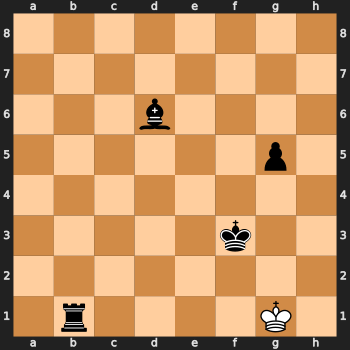
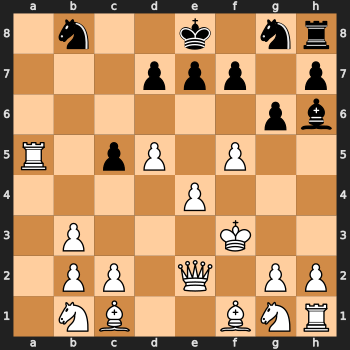
Random moves

diff --git a/randomMoves.py b/randomMoves.py
@@ -1,0 +1,75 @@
+import asyncio
+import chess
+import chess.engine
+import chess.svg
+import cairosvg
+import os
+import random
+import re
+
+
+async def main() -> None:
+    # Stockfish engine
+    transport, engine = await chess.engine.popen_uci("/usr/local/Cellar/stockfish/12/bin/stockfish")
+    black = 0
+    white = 0
+    draws = 0
+    board = chess.Board()
+
+    for j in range(100):
+
+        print("Game number: " + str(j+1))
+
+        # Create the board
+        board.reset()
+
+        # Counter
+        i = 0
+
+        # Loop through the game
+        while not board.is_game_over():
+            # Get result from engine
+            result = await engine.play(board, chess.engine.Limit(time=0.001))
+
+            # Select random move
+            num = random.randint(0, board.legal_moves.count() - 1)
+            moves = str(board.legal_moves)[str(board.legal_moves).find(
+                "(")+1:str(board.legal_moves).find(")")]
+            move = moves.split(', ')[num]
+
+            # Every other move is good- push to board
+            if int(i/2) % 2 == 0:
+                board.push_san(move)
+                # Print each selected move
+                print("Random: " + move + " (played)")
+                print("Stockfish: " + str(result.move))
+            else:
+                board.push(result.move)
+                # Print each selected move
+                print("Random: " + move)
+                print("Stockfish: " + str(result.move) + " (played)")
+
+            # Push to image
+            svg = chess.svg.board(board, size=350)
+            fh = open("board.svg", "w")
+            fh.write(svg)
+            fh.close()
+
+            # increment counter
+            i += 1
+            os.system("cairosvg board.svg -o board.png")
+
+        # Update the number of wins
+        if board.result == '1-0':
+            white += 1
+        elif board.result == '0-1':
+            black += 1
+        else:
+            draws += 1
+
+    await engine.quit()
+    print("White: " + str(white) + ". Black: " +
+          str(black) + ". Draws: " + str(draws) + ".")
+
+asyncio.set_event_loop_policy(chess.engine.EventLoopPolicy())
+asyncio.run(main())

diff --git a/chess-starter.py b/chess-starter.py
@@ -16,7 +16,7 @@ async def main() -> None:
 
     board = chess.Board()
     while not board.is_game_over():
-        result = await engine.play(board, chess.engine.Limit(time=0.05))
+        result = await engine.play(board, chess.engine.Limit(time=0.5))
         print(result.move)
         board.push(result.move)
         svg = chess.svg.board(board, size=350)
